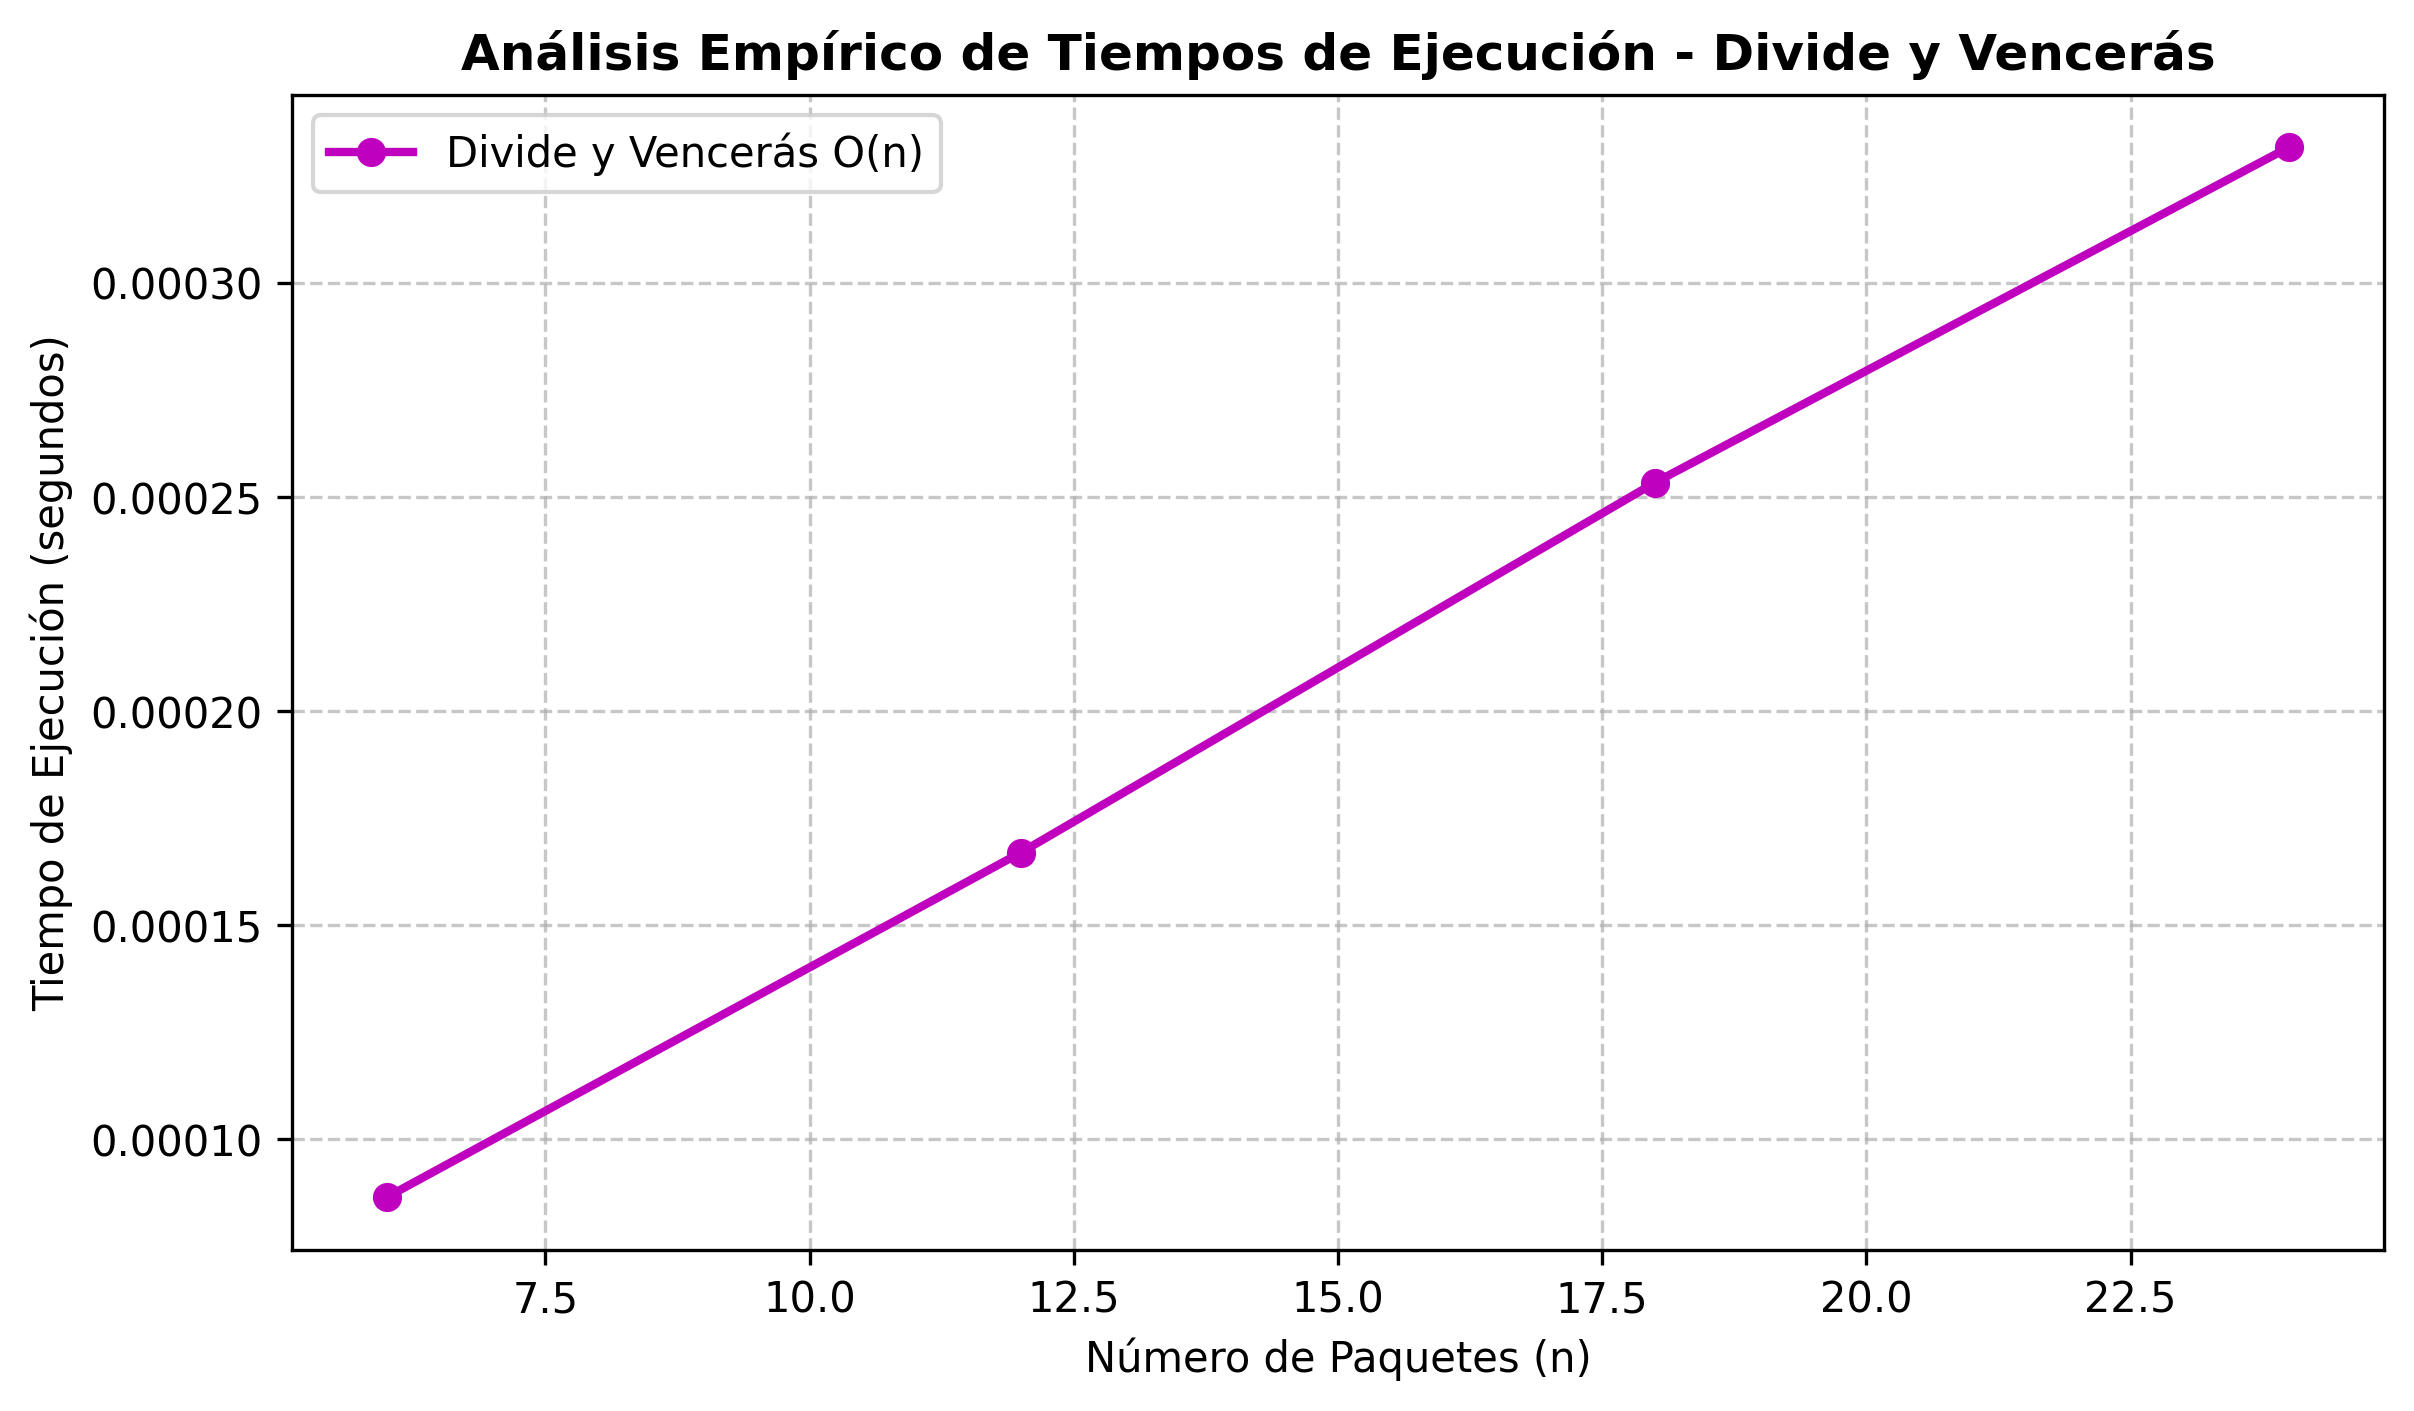
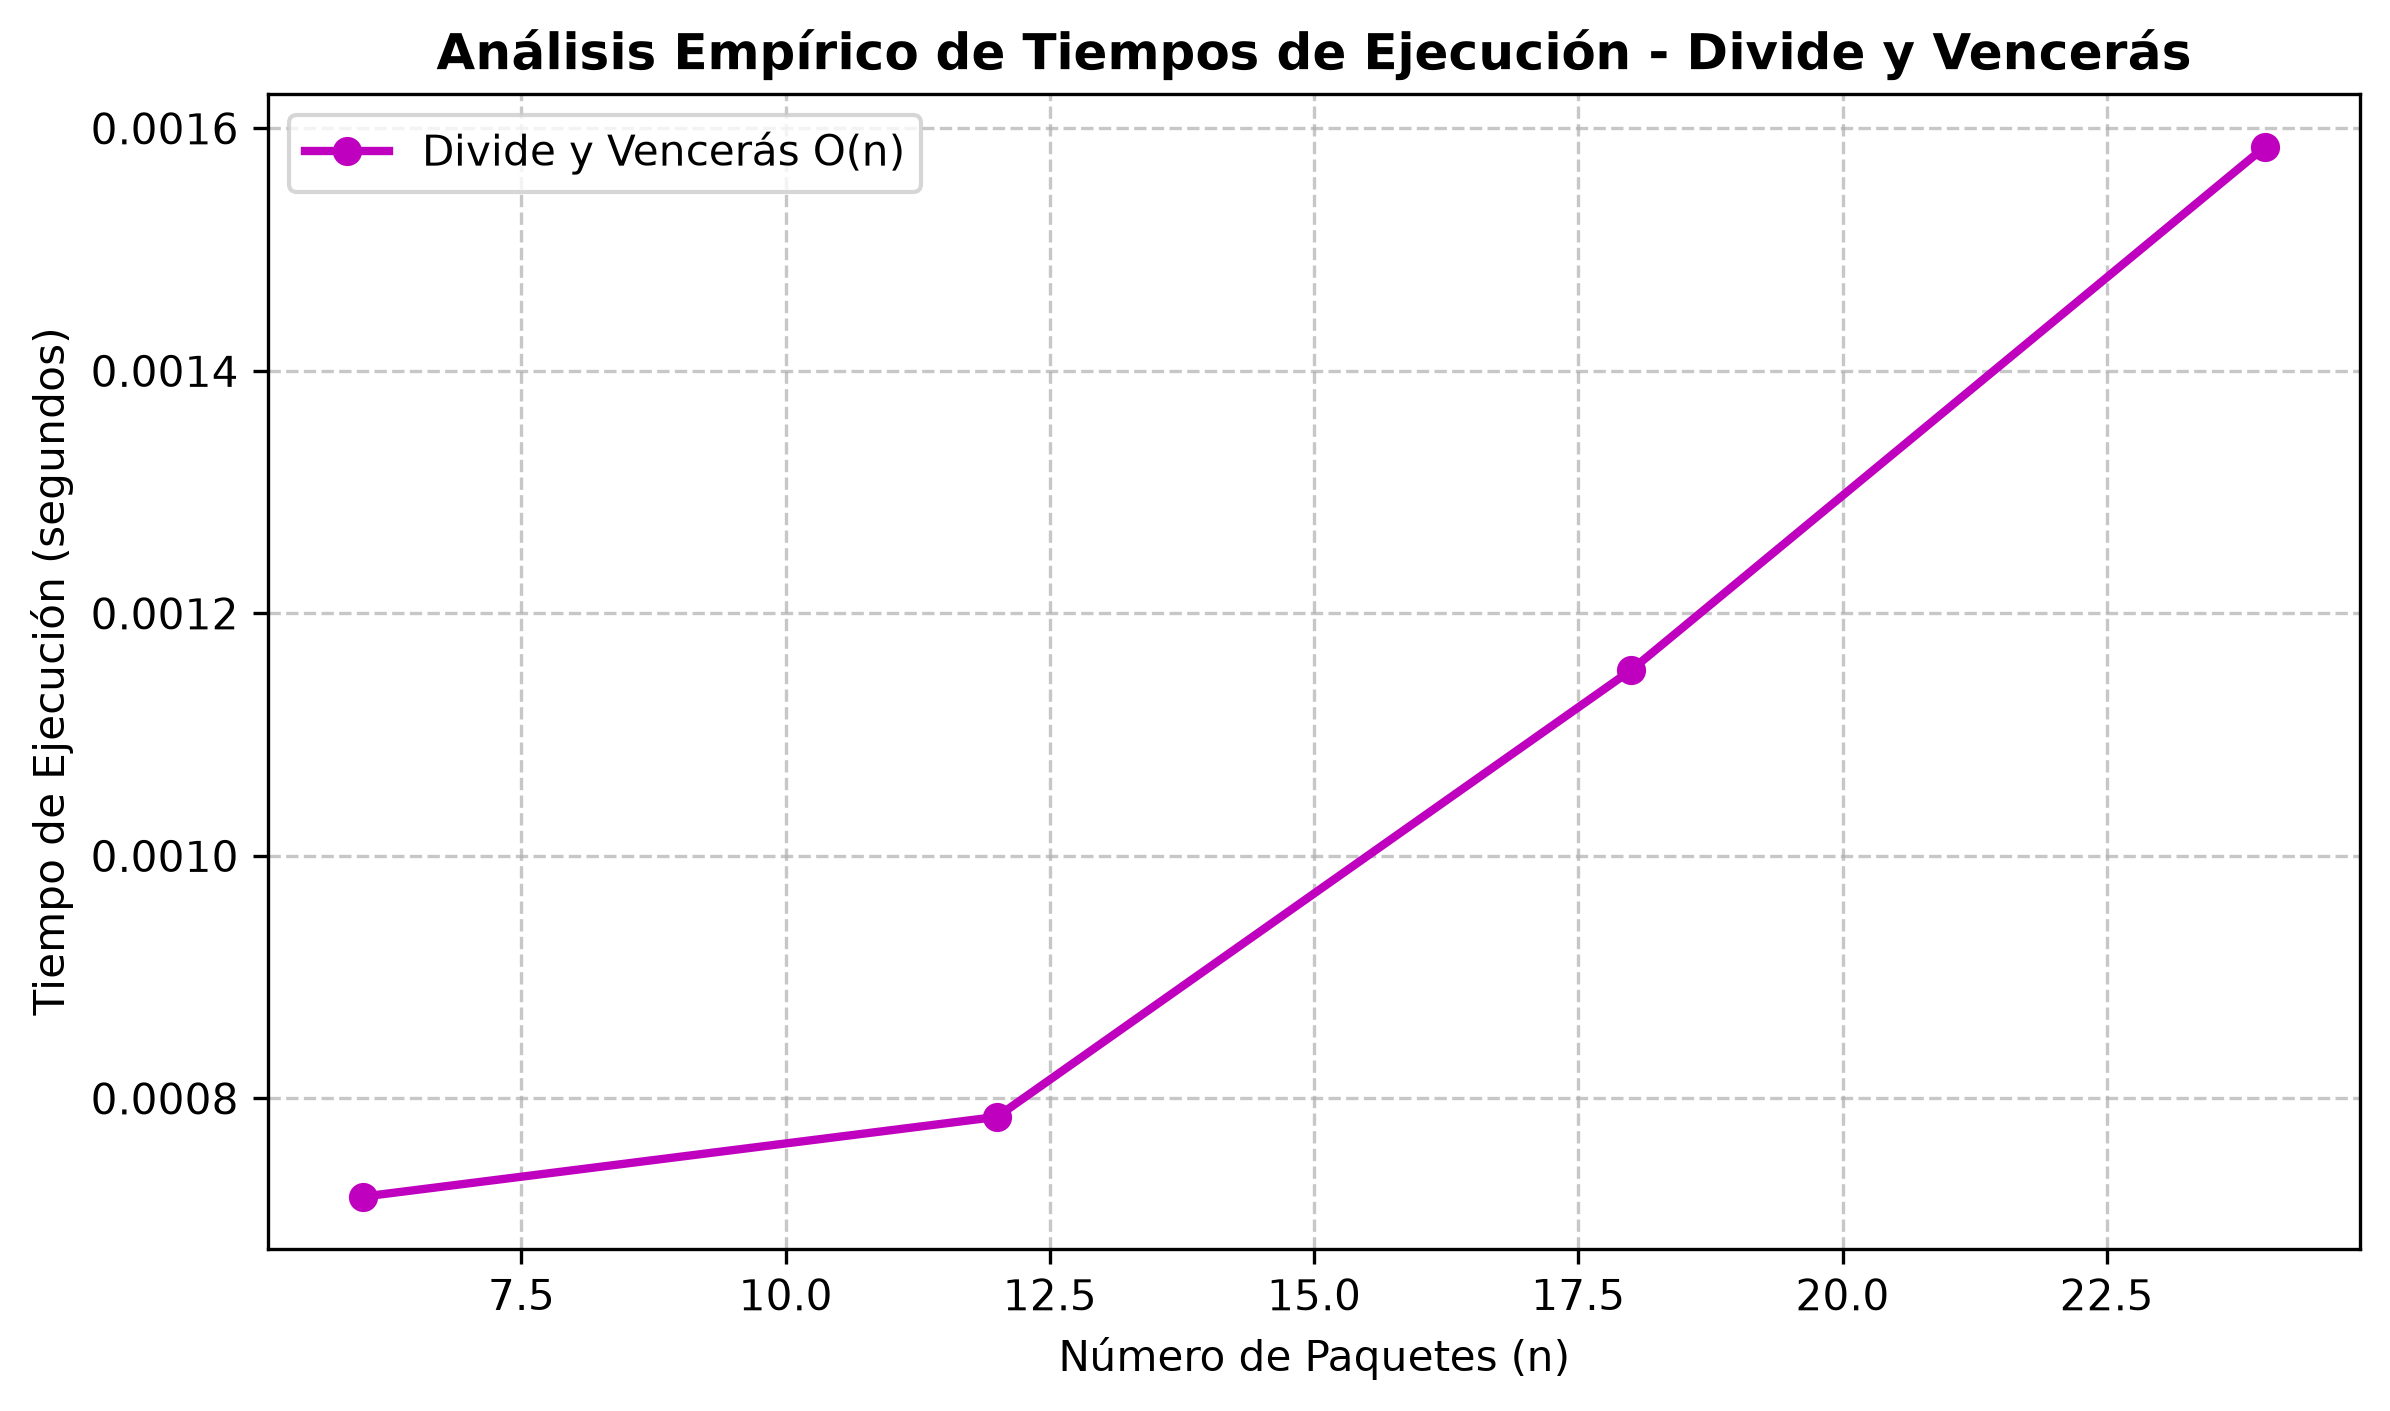
"fix(comparativa): corregir salida en consola de tiempos y agregar timeout en gráficas"

diff --git a/src/comparativa.py b/src/comparativa.py
@@ -1,7 +1,26 @@
-import os, sys, time, matplotlib.pyplot as plt
+import os, sys, time, multiprocessing, matplotlib.pyplot as plt
 from fuerza_bruta import fuerza_bruta, cargar_casos
 from greedy import algoritmo_greedy
 from divide_y_venceras import algoritmo_divide_y_venceras
+from programacion_dinamica import asignar_paquetes_dp
+from backtracking import asignar_paquetes_backtracking
+
+# Función auxiliar para ejecutar con límite de tiempo
+def ejecutar_con_timeout(func, args, limite_segundos=60.0):
+    # Envolvemos la función para que se ejecute en un proceso separado
+    p = multiprocessing.Process(target=func, args=args)
+    t0 = time.perf_counter()
+    p.start()
+    p.join(limite_segundos) # Esperar máximo el límite de tiempo
+    
+    if p.is_alive():
+        # Si sigue vivo después de 60s, lo matamos y retornamos el límite
+        p.terminate()
+        p.join()
+        return limite_segundos
+    else:
+        # Si terminó antes, retornamos el tiempo real
+        return time.perf_counter() - t0
 
 def ejecutar_comparativa():
     casos = [
@@ -14,36 +33,53 @@ def ejecutar_comparativa():
     paquetes_n_fb, t_fb = [], []
     paquetes_n_greedy, t_greedy = [], []
     paquetes_n_dyv, t_dyv = [], []
+    paquetes_n_dp, t_dp = [], []       
+    paquetes_n_bt, t_bt = [], []
 
-    print("Iniciando mediciones empíricas de tiempo (Greedy, Fuerza Bruta y Divide y Vencerás)...")
+    print("Iniciando mediciones empíricas de tiempo...")
 
     for nombre, ruta in casos:
         camiones, paquetes = cargar_casos(ruta)
         n = len(paquetes)
 
-        # 1. Medición Greedy (Aplica para todos los casos)
+        # 1. Medición Greedy 
         paquetes_n_greedy.append(n)
+        old_stdout = sys.stdout  # Guardar salida original
         sys.stdout = open(os.devnull, 'w')
         t0 = time.perf_counter()
         algoritmo_greedy(paquetes, camiones)
         t_greedy.append(time.perf_counter() - t0)
-        sys.stdout = sys.__stdout__
+        sys.stdout = old_stdout  # Restaurar salida de forma segura
 
-        # 2. Medición Divide y Vencerás (Aplica para todos los casos)
+        # 2. Medición Divide y Vencerás
         paquetes_n_dyv.append(n)
         t0 = time.perf_counter()
         algoritmo_divide_y_venceras(paquetes, camiones)
         t_dyv.append(time.perf_counter() - t0)
 
-        # 3. Medición Fuerza Bruta (Solo hasta n <= 16 por viabilidad exponencial)
+        # 3. Medición Fuerza Bruta 
         if n <= 16:
             paquetes_n_fb.append(n)
             t0 = time.perf_counter()
             fuerza_bruta(paquetes, camiones)
             t_fb.append(time.perf_counter() - t0)
-            print(f"[{nombre.upper()}] Paquetes={n} | Greedy={t_greedy[-1]:.6f}s | D&V={t_dyv[-1]:.6f}s | Fuerza Bruta={t_fb[-1]:.6f}s")
+            fb_str = f"{t_fb[-1]:.6f}s"
         else:
-            print(f"[{nombre.upper()}] Paquetes={n} | Greedy={t_greedy[-1]:.6f}s | D&V={t_dyv[-1]:.6f}s | Fuerza Bruta=Omitido (Inviable para n={n})")
+            fb_str = f"Omitido (Inviable)"
+
+        # 4.  Medición Backtracking
+        paquetes_n_bt.append(n)
+        t_backtracking = ejecutar_con_timeout(asignar_paquetes_backtracking, (paquetes, camiones), 60.0)
+        t_bt.append(t_backtracking)
+
+        # 5.  Medición DP
+        paquetes_n_dp.append(n)
+        t_dinamica = ejecutar_con_timeout(asignar_paquetes_dp, (paquetes, camiones), 60.0)
+        t_dp.append(t_dinamica)
+        
+        # AHORA SÍ IMPRIMIMOS TODO (Incluyendo FB, Backtracking y DP)
+        print(f"[{nombre.upper()}] Paquetes={n} | Greedy={t_greedy[-1]:.6f}s | D&V={t_dyv[-1]:.6f}s | FB={fb_str} | BT={t_bt[-1]:.6f}s | DP={t_dp[-1]:.6f}s")
+
 
     os.makedirs("src", exist_ok=True)
 
@@ -89,7 +125,41 @@ def ejecutar_comparativa():
     plt.savefig(ruta_dyv, dpi=300, bbox_inches='tight')
     plt.close()
 
-    print(f"\n¡Gráficas independientes guardadas con éxito!\n - {ruta_fb}\n - {ruta_greedy}\n - {ruta_dyv}")
+    # ==========================================
+    # --- NUEVA GRÁFICA 4: BACKTRACKING ---
+    # ==========================================
+    plt.figure(figsize=(9, 5))
+    plt.plot(paquetes_n_bt, t_bt, 'r-o', linewidth=2, label='Backtracking (Con Podas)')
+    # Dibujar línea roja punteada indicando el Timeout
+    plt.axhline(y=60, color='r', linestyle=':', label='Timeout (60s)')
+    plt.title('Análisis Empírico de Tiempos - Backtracking', fontweight='bold', fontsize=12)
+    plt.xlabel('Número de Paquetes (n)', fontsize=10)
+    plt.ylabel('Tiempo de Ejecución (segundos)', fontsize=10)
+    plt.grid(True, linestyle='--', alpha=0.7)
+    plt.legend()
+    ruta_bt = "src/grafica_backtracking_logistica.png"
+    plt.savefig(ruta_bt, dpi=300, bbox_inches='tight')
+    plt.close()
+
+
+    # ==========================================
+    # --- NUEVA GRÁFICA 5: PROGRAMACIÓN DINÁMICA ---
+    # ==========================================
+    plt.figure(figsize=(9, 5))
+    plt.plot(paquetes_n_dp, t_dp, 'c-o', linewidth=2, label='DP (Top-Down Memoization)')
+    # Dibujar línea roja punteada indicando el Timeout
+    plt.axhline(y=60, color='r', linestyle=':', label='Timeout (60s)')
+    plt.title('Análisis Empírico de Tiempos - Programación Dinámica', fontweight='bold', fontsize=12)
+    plt.xlabel('Número de Paquetes (n)', fontsize=10)
+    plt.ylabel('Tiempo de Ejecución (segundos)', fontsize=10)
+    plt.grid(True, linestyle='--', alpha=0.7)
+    plt.legend()
+    ruta_dp = "src/grafica_dp_logistica.png"
+    plt.savefig(ruta_dp, dpi=300, bbox_inches='tight')
+    plt.close()
+
+    print(f"\n¡Gráficas independientes guardadas con éxito!\n{ruta_fb}\n{ruta_greedy}\n{ruta_dyv}\n{ruta_bt}\n{ruta_dp}")
 
 if __name__ == "__main__":
+    multiprocessing.freeze_support()
     ejecutar_comparativa()
